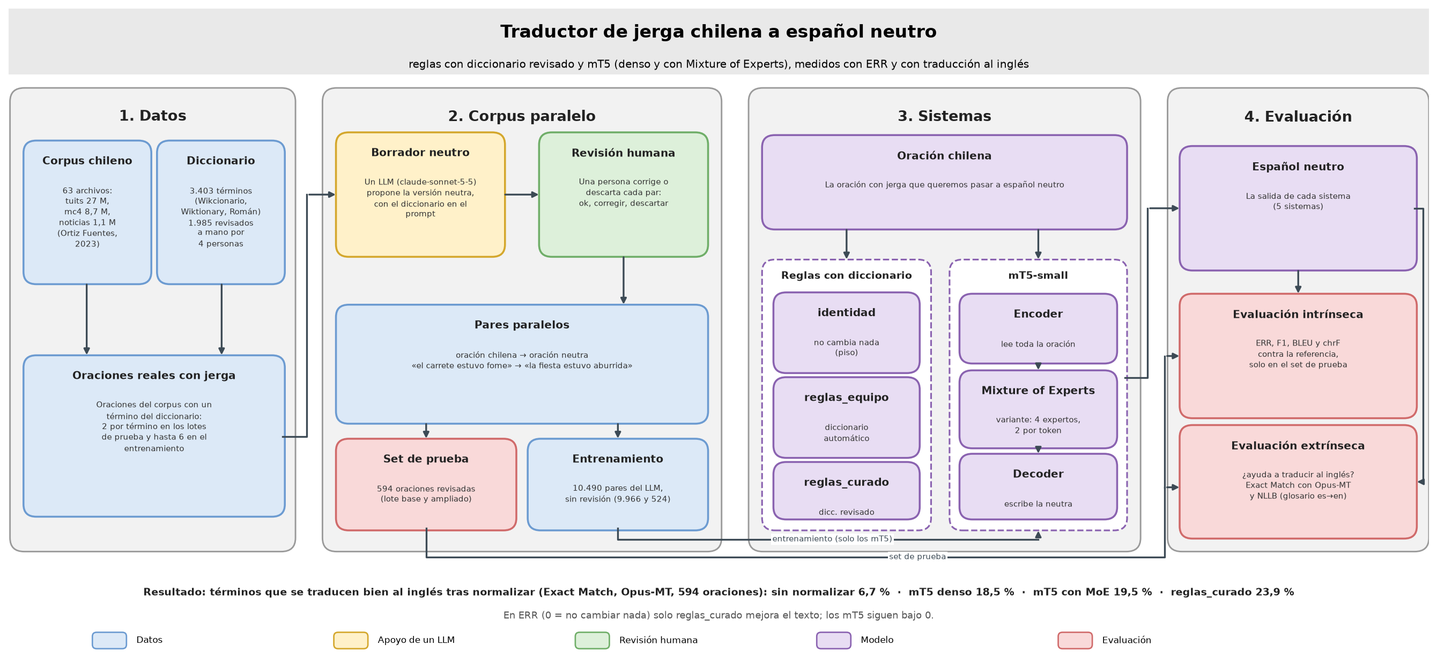
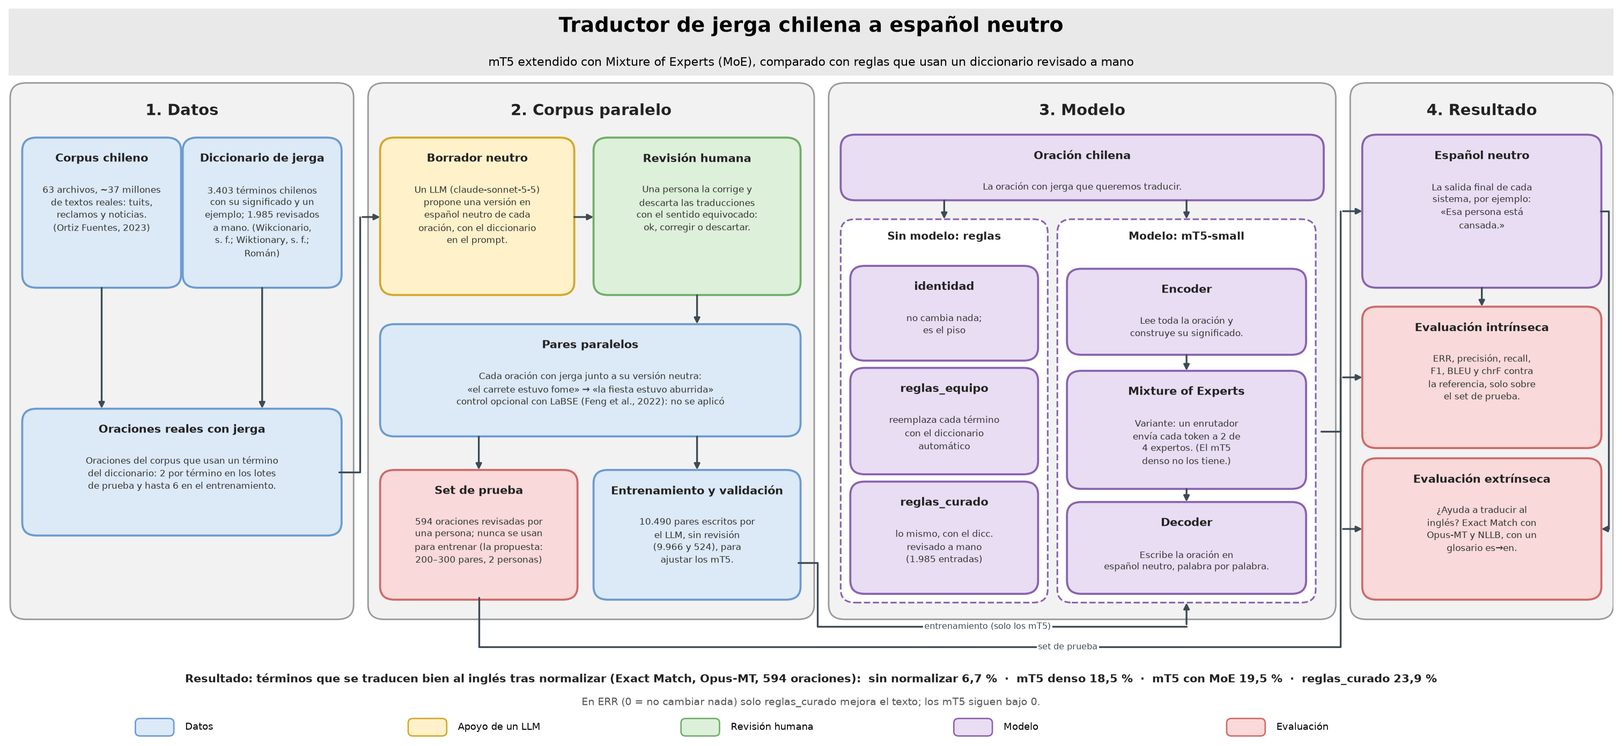
Auditoría del informe y los README: graphical abstract fiel al original, 6 figuras nuevas y mapa de experimentos
- Graphical abstract actualizado reconstruido sobre el de la propuesta (mismas cajas, descripciones, citas y ejemplo),
  con lo que cambió a la vista (reglas, set de prueba revisado por una persona, dos evaluaciones, LaBSE no aplicado).
- Figuras nuevas: ERR de la fase 2, traductores genéricos, LLM generadores con IC, efecto de la definición, cuántas
  familias hacen falta y extrínseca por conjunto. Esta última muestra que reglas_curado no gana en todos los conjuntos
  (en los tuits de primera fase la superan los mT5); queda dicho en el informe y en las conclusiones.
- Informe: mapa de los 15 experimentos (1.4), glosario ampliado con los términos técnicos que faltaban,
  «tamaño de lote (batch)» distinguido de «lote» de pares y rutas corregidas.
- data/README.md y annotation/README.md: glosarios, glosas de los modelos, respuestas crudas y nombres de los lotes.
- archivo/: enlaces rotos corregidos tras mover los README.
- Cifras del informe y del README cruzadas contra los CSV de resultados, el diccionario, los lotes y los glosarios.

diff --git a/docs/informe_interno.md b/docs/informe_interno.md
@@ -4,7 +4,7 @@
 
 **Cómo se nombra a las personas.** Por números de integrante (tabla de la sección 1). **Cómo se nombran los sistemas.** El sistema que sustituye con el diccionario revisado a mano se llama aquí `reglas_curado`; **en el código y en los CSV de resultados se llama `reglas_flo`** (y en el estudio previo `reglas_flo_con_ambiguos`, `llm_dicc_flo` y `mt5_flo`). El que usa el diccionario automático es `reglas_equipo` en todas partes.
 
-**Las figuras** de las secciones 2 y 4 se generan con `notebooks/graficos_informe.ipynb` (corre en Colab; guarda los PNG en `docs/figuras/`).
+**Las figuras** de las secciones 1, 2 y 4 se generan con `notebooks/graficos_informe.ipynb` (corre en Colab; guarda los PNG en `docs/figuras/`).
 
 **De dónde salen los números.** Fase 1: `archivo/resultados/comparacion_baselines.csv` y `tabla_por_conjunto.md`. Fase 2: los resultados de esa corrida se reemplazaron en la fase 3, así que sus cifras salen del historial de git (commits `0d7eb83` y `1aeef4a`). Fases 3 y 4: `resultados/metricas_normalizador.md`, `resultados/eval_extrinseca.md` y sus variantes. Cada carpeta tiene un README con más detalle (`README.md`, `annotation/README.md`, `data/README.md`).
 
@@ -58,6 +58,28 @@
 
 Los diagramas con más detalle están en la sección que les corresponde: cómo se hizo el diccionario revisado (2.1), los 8 sistemas de la fase 1 (3.1) y los archivos que entran y salen de cada paso (sección 8). Se editan con [draw.io](https://app.diagrams.net) abriendo `docs/pipelines.drawio`.
 
+### 1.4 Mapa de los experimentos
+
+Todos los experimentos del proyecto, con la pregunta que responde cada uno y dónde está el detalle (la sección 4 los desarrolla con sus tablas y figuras).
+
+| # | Fase | Experimento | Pregunta | Resultado, en una línea | Sección |
+|---|---|---|---|---|---|
+| 1 | 1 | Reglas con diccionario automático y con el revisado | ¿Vale la pena revisar el diccionario a mano? | Sí: el BLEU del lote base sube de 84,1 a 89,6 | 4.1 |
+| 2 | 1 | LLM con y sin diccionario | ¿El diccionario ayuda al LLM? | Sí, sobre todo en tuits: 89,4 contra 83,2 de BLEU | 4.1 |
+| 3 | 1 | Sustituir o no los términos ambiguos | ¿Conviene sustituir palabras que también son estándar? | No: empeora (en noticias, de 94,8 a 90,6) | 4.1 |
+| 4 | 1 | Traductores genéricos con pivote por inglés | ¿Basta con un traductor automático? | No: reescriben todo (BLEU de 25 a 50 contra 80 a 94 de la identidad) | 4.1 |
+| 5 | 1 | Versiones del mT5 (texto con ruido o limpio, épocas) | ¿Qué hace mejorar al modelo propio? | Texto limpio y 8 épocas: de 0,1 a 66,1 y a 81,0 de BLEU | 4.1 |
+| 6 | 2 | Primera corrida del pipeline final | ¿Qué rinde cada uno de los 5 sistemas, medido con ERR y con traducción? | Solo `reglas_curado` tiene ERR positivo; los mT5 con 1.500 pares no aprenden | 4.2 |
+| 7 | 3 | Ampliar el diccionario de 443 a 1.985 entradas | ¿Un diccionario más grande mejora las reglas? | Sube el recall y baja la precisión: mejora el lote base, no los lotes de las 100 palabras frecuentes | 4.3 |
+| 8 | 3 | mT5 con 7 veces más pares | ¿Más datos acercan al modelo propio a las reglas? | Mejora mucho (ERR de −21,8 a −9,6), pero sigue bajo 0 | 4.3 |
+| 9 | 3 | Qué hace cada sistema con cada oración | ¿Cómo fallan los mT5? | Cambian algo sin acertar en 56 a 65 % de las oraciones | 4.3 |
+| 10 | 4 | Acuerdo entre revisores | ¿Qué tan confiable es una sola revisión? | Kappa de 0,04 con una sola pareja: no concluyente | 4.4 |
+| 11 | 4 | Otros LLM como generadores de borradores | ¿Otro modelo puede escribir los borradores? | Haiku (85,0 %) y Gemini (82,9 %) sí; Llama 8B (40,2 %) no | 4.4 |
+| 12 | 4 | Glosario es→en por votos entre familias | ¿Se puede completar el glosario sin revisar todo a mano? | Sí: 57 de 60 términos muestreados con glosas válidas (95 %) | 4.4 |
+| 13 | 4 | Efecto de la definición y del número de familias | ¿Qué tanto dependen las glosas de la definición y de cuántos modelos voten? | Poco de la definición (92 a 97 %); la calidad no sube con más familias | 4.4 |
+| 14 | 4 | Evaluación extrínseca final y controles | ¿Normalizar ayuda a traducir al inglés? | Sí: 23,9 % con `reglas_curado` y 18,5 a 19,5 % con los mT5, contra 6,7 % sin normalizar; el orden no depende del glosario | 4.4 |
+| 15 | 4 | Sesgo según quién revisó el término | ¿El resultado favorece lo que revisó el integrante 1? | Sin evidencia de favoritismo, pero se confunde con la frecuencia del término | 4.4 |
+
 ---
 
 ## 2. Recolección de datos, por fases
@@ -98,7 +120,7 @@ Cada par se hizo así: un LLM (`claude-sonnet-5-5`) propuso la versión neutra (
 
 Con lo que había hasta entonces, el integrante 5 corrió por primera vez el pipeline completo (21 a 24-nov-2026). **Los datos de esa corrida:**
 
-- **Diccionario de `reglas_curado`:** el del libro 1 (`data/curado/diccionario_flo_parte1.csv`): **443 entradas**, todas con reemplazo validado, 231 de ellas marcadas como ambiguas. El diccionario completo (1.985 entradas) llegó después (2.3).
+- **Diccionario de `reglas_curado`:** el del libro 1 (`data/curado/diccionario_flo_parte1.csv` (hoy solo en el historial de git, commit `9a3c627`)): **443 entradas**, todas con reemplazo validado, 231 de ellas marcadas como ambiguas. El diccionario completo (1.985 entradas) llegó después (2.3).
 - **Diccionario de `reglas_equipo`:** el automático del Wikcionario (2.1a).
 - **Conjuntos de prueba:** los tres de la fase 1: lote base, lote primera fase noticias y lote primera fase tuits (213 + 72 + 165 pares).
 - **Entrenamiento de los mT5:** los 1.500 pares de la fase 1 (1.416 para entrenar, 75 para validar; 2.1f).
@@ -172,13 +194,13 @@ Como referencias también se miden `mt5_sin_ajustar` (el mismo modelo sin entren
 
 El LLM no usó clave de API: corre con la sesión de Claude Code del integrante 1 (gasta el uso del plan, no se cobra por token). Se le pasan las oraciones en lotes de 10 y devuelve una lista en JSON. El texto de las oraciones se trata como datos, nunca como instrucciones (prompts completos en el Anexo A).
 
-**Métricas de la fase 1.** **BLEU** y **chrF** (`sacrebleu`), sobre todo el conjunto. En todos los sistemas se quitaron los `@usuario` y los emojis de las oraciones y de las referencias antes de medir (son ruido sin jerga y confundían al modelo propio); los resultados con el texto original están en `resultados/comparacion_baselines_texto_original.csv`. Como casi toda la oración no cambia, la identidad ya parte alta (84 a 94 de BLEU): importa la **diferencia con la identidad**, no el valor absoluto.
+**Métricas de la fase 1.** **BLEU** y **chrF** (`sacrebleu`), sobre todo el conjunto. En todos los sistemas se quitaron los `@usuario` y los emojis de las oraciones y de las referencias antes de medir (son ruido sin jerga y confundían al modelo propio); los resultados con el texto original están en `archivo/resultados/comparacion_baselines_texto_original.csv`. Como casi toda la oración no cambia, la identidad ya parte alta (84 a 94 de BLEU): importa la **diferencia con la identidad**, no el valor absoluto.
 
 ### 3.2 Fase 2: primera corrida del pipeline final (5 sistemas)
 
 **Sistemas.** `identidad`; `reglas_equipo` (diccionario automático); `reglas_curado` (con el diccionario del libro 1, 443 entradas, ambiguos sin sustituir; en el código `reglas_flo`); `mt5` y `mt5_moe` (entrenados con los 1.500 pares). Las reglas priorizan las locuciones más largas y antes quitan las menciones `@usuario` y los emojis. Los cinco se miden en los tres conjuntos de la fase 1 (2.2).
 
-**mT5 denso (`models/mt5/mt5.ipynb`, integrante 5).** Notebook de Colab (GPU T4) que ajusta `google/mt5-small` con `data/interim/borrador_entrenamiento.csv`: 8 épocas, Adafactor, tasa de aprendizaje 5e-4, lote de 8, semilla 1 y **precisión fp32** (la T4 no tiene bf16). Guarda el mejor modelo según la pérdida de validación y escribe las predicciones sobre los conjuntos.
+**mT5 denso (`models/mt5/mt5.ipynb`, integrante 5).** Notebook de Colab (GPU T4) que ajusta `google/mt5-small` con `data/interim/borrador_entrenamiento.csv`: 8 épocas, Adafactor, tasa de aprendizaje 5e-4, tamaño de lote (batch) 8, semilla 1 y **precisión fp32** (la T4 no tiene bf16). Guarda el mejor modelo según la pérdida de validación y escribe las predicciones sobre los conjuntos.
 
 **mT5 con mezcla de expertos (`models/mt5_moe/mt5_moe.ipynb`, integrante 5).** Convierte ese mismo mT5 en MoE por *upcycling*: una capa de cada dos (bloques 1, 3, 5 y 7) pasa a ser dispersa, con **4 expertos** que parten como copias de la red densa y un router que manda cada token a los **2 mejores**. El router trabaja en fp32 con un poco de ruido (0,01) y el entrenamiento suma una pérdida de balance de carga y una pérdida z (0,001 cada una). Verifica que, antes de entrenar, el MoE reproduce al denso. Se entrena con los mismos datos y parámetros que el denso, para que la comparación sea justa.
 
@@ -190,7 +212,7 @@ El LLM no usó clave de API: corre con la sesión de Claude Code del integrante 
 
 **Qué cambia respecto de la fase 2:** el diccionario de `reglas_curado` pasa de 443 a **1.985 entradas**; los conjuntos pasan de 3 a **5** (594 oraciones únicas); los mT5 se entrenan con **10.490 pares** en vez de 1.500; el código de las métricas y de la extrínseca es el mismo (con la corrección que se cuenta en 4.4). Las reglas se recalcularon con el diccionario unificado y los dos mT5 se reentrenaron.
 
-**Entrenamiento local (integrante 1).** Se reentrenaron los dos con los 10.490 pares, con los mismos notebooks y parámetros, pero con lote 4 en vez de 8, porque la RTX 3050 de 4 GB no aguanta lote 8 en fp32. `src/ejecutar_notebook_local.py` ejecuta las celdas de los notebooks de Colab sin cambiar el código (con una carpeta local en lugar de Google Drive) y `src/correr_pipeline_local.py` encadena los pasos. Una sola semilla.
+**Entrenamiento local (integrante 1).** Se reentrenaron los dos con los 10.490 pares, con los mismos notebooks y parámetros, pero con tamaño de lote (batch) 4 en vez de 8, porque la RTX 3050 de 4 GB no aguanta lote 8 en fp32. `src/ejecutar_notebook_local.py` ejecuta las celdas de los notebooks de Colab sin cambiar el código (con una carpeta local en lugar de Google Drive) y `src/correr_pipeline_local.py` encadena los pasos. Una sola semilla.
 
 ### 3.4 Fase 4: validación
 
@@ -265,6 +287,8 @@ BLEU / chrF (`archivo/resultados/tabla_por_conjunto.md`):
 
 **Traductores genéricos.** Ambos quedan muy por debajo de no hacer nada (44,5 y 38,5 contra 85,7 de la identidad en el lote base). Reescriben toda la oración en vez de cambiar solo la jerga, pierden mayúsculas, hashtags y nombres, y cambian el sentido de las palabras que no conocen (ver los ejemplos del Anexo B). Esto justifica que el problema necesita un sistema que conozca la jerga y deje intacto el resto.
 
+![BLEU de los traductores genéricos con pivote por inglés frente a la identidad y a reglas_curado](figuras/fig14_traductores_genericos.png)
+
 **Modelo propio (mT5).** `mT5-small` ajustado en la GPU del integrante 1 **todavía no supera a la identidad** (81,0 contra 85,7 en el lote base, y 80,4 contra 82,7 en tuits). Aun así aprendió la tarea: sin ajustar da cerca de 0 de BLEU. Lo que mejoró el resultado fue:
 
 | Versión | BLEU en el lote base |
@@ -306,6 +330,8 @@ Resultados de la corrida del integrante 5: diccionario del libro 1 (443 entradas
 | **reglas_curado** | **21,1** | **18,8** |
 | mT5 denso | 9,4 | 9,4 |
 | mT5 con MoE | 10,3 | 10,5 |
+
+![ERR de la primera corrida (fase 2) por sistema y conjunto](figuras/fig13_err_fase2.png)
 
 **Qué se concluye de la fase 2**
 
@@ -420,6 +446,8 @@ En lote base todas las oraciones tienen jerga; en tuits y noticias entre 22 % y 
 
 **Otros LLM como generadores de borradores (24-nov-2026).** Tasa de `ok` sobre los pares revisados (IC 95 % de Wilson): **Haiku 5.5 85,0 %** (78,8 a 89,6; 167 pares), **Gemini 3.5 flash-lite 82,9 %** (76,6 a 87,9; 170 pares) y **Llama 3.1 8B 40,2 %** (31,9 a 49,0; 122 pares); la referencia, `claude-sonnet-5-5`, quedó en 80,8 % en otra medición (no es una comparación ciega). Haiku y Gemini no se distinguen (McNemar, p = 1,0; con `ok` + `corregir` ambos sirven en ~98 % de los casos; chrF 91,3 y 93,2 contra la versión final). Llama 8B se descarta: solo el 70 % de sus borradores sirven, 19 respuestas vinieron vacías y 10 devolvieron el prompt (chrF 77,0). Límites: la versión final salió del borrador de Sonnet, así que Haiku (misma familia) parte con ventaja; los 200 pares excluyen los descartados de Sonnet, lo que también lo favorece; hay un único revisor; 61 filas quedaron sin revisar y 74 filas exclusivas de Llama se dejaron de revisar a propósito, por lo que las tasas se calculan solo sobre lo revisado. Detalle en `annotation/README.md`.
 
+![Tasa de borradores aceptados sin cambios por modelo, con IC 95 % de Wilson](figuras/fig15_generadores_llm.png)
+
 **Glosario es→en: calibración de la regla de votos.** Con los 93 términos revisados a mano y las 7 familias completas (diccionario, Claude, Google, Cohere, Meta, IBM y Nvidia):
 
 | Coinciden al menos | Términos con glosa aceptada (de 330) | Sin acuerdo | Comparte una glosa con la referencia | Glosas aceptadas que la referencia respalda |
@@ -436,6 +464,8 @@ En lote base todas las oraciones tienen jerga; en tuits y noticias entre 22 % y 
 
 **Cuántas familias hacen falta.** Se probaron todos los subconjuntos de las 6 familias completas en ese momento. De 3 a 6 familias, la coincidencia con la referencia queda estancada en 70 a 77 %: la calidad no mejora al sumar familias (hay un techo que no depende del número de modelos). Lo que sí cambia es la estabilidad: con 6 familias y umbral 4, al quitar una familia se conserva entre 63 % (sin Claude) y 88 % (sin el diccionario) de las glosas aceptadas. Por eso conviene tener unas 8 a 10 familias, y más allá no se espera ganancia.
 
+![Calidad según el número de familias y estabilidad al quitar una](figuras/fig17_cuantas_familias.png)
+
 **Efecto de la definición que ve el modelo.** Se comparó, para cada modelo, la versión con la definición del diccionario curado (la que se usa) con la primera pasada, que usaba solo el Wikcionario en español. Porcentaje de términos en que las dos versiones comparten al menos una glosa equivalente:
 
 | Modelo | Todos los términos | Los 52 sin definición del Wikcionario | Los 278 con definición |
@@ -449,6 +479,8 @@ En lote base todas las oraciones tienen jerga; en tuits y noticias entre 22 % y 
 | IBM (Granite) | 78 % (222 de 284) | 68 % | 80 % |
 
 En general la definición cambia poco la glosa (92 a 97 % de coincidencia en los modelos más estables). Donde sí pesa es en los 52 términos sin definición del Wikcionario (53 a 87 %): ahí el modelo, antes sin pista, ahora recibe la definición del diccionario curado. Cohere e IBM son los menos estables y los que menos coinciden con la referencia, por eso son los candidatos a bajar su peso si se sigue sumando familias.
+
+![Coincidencia de glosas entre la definición curada y la del Wikcionario, por modelo](figuras/fig16_efecto_definicion.png)
 
 **Resultado de la revisión.** Con el umbral 5 quedan 271 términos aceptados y 59 sin acuerdo. El integrante 1 revisó 67 términos y **dos muestras de términos aceptados por votos, 20 y 40 (60 en total)**. Cada término de la muestra se clasificó así: *ok* (las glosas aceptadas sirven tal cual), *incompleta* (las aceptadas sirven pero faltan otras, y se agregaron) o *distinta* (hubo que reemplazar una glosa aceptada).
 
@@ -477,6 +509,10 @@ En general la definición cambia poco la glosa (92 a 97 % de coincidencia en los
 Los dos mT5 mejoran mucho la traducción respecto de no normalizar (de 6,7 a 18 o 19 % con Opus-MT) y quedan unos 5 puntos por debajo de `reglas_curado`; con 1.500 pares quedaban en 9,4 y 10,3 %. El MoE queda 1 punto sobre el denso en «todos» y en casi todos los conjuntos, igual que en la intrínseca; con una semilla esa diferencia no es concluyente. **Comparación con la primera corrida:** gana el mismo sistema y `reglas_curado` queda cerca de su 23,3 / 20,9, pero las oraciones y el glosario cambiaron (446 contra 594), así que no hay que restar las cifras. En noticias hay 68 a 73 oraciones, y ahí `reglas_equipo` queda sobre `reglas_curado` con Opus-MT (22,1 contra 14,7 en lote primera fase noticias): no se exploró y con ese tamaño no se interpreta.
 
 ![Exact Match por sistema con los tres glosarios, con Opus-MT y NLLB](figuras/fig7_extrinseca.png)
+
+**Por conjunto, el orden no es el mismo.** `reglas_curado` es la mejor en el lote base (30,5 % contra 22,5 y 23,5 de los mT5) y en el lote ampliado de tuits (20,8 contra 17,9 y 18,5). Pero en los tuits de primera fase (165 oraciones) queda por debajo de los dos mT5 con Opus-MT (17,6 contra 18,8 y 18,8; con NLLB el denso empata en 13,3 y el MoE llega a 13,9), y en noticias (68 y 73 oraciones) `reglas_equipo` la supera (22,1 y 21,9 contra 14,7 y 17,8). Es plausible que los mT5 rindan mejor justo en las 100 palabras más frecuentes porque son las que más aparecen en su entrenamiento, pero no se comprobó. Gran parte de la ventaja de `reglas_curado` en la fila «todos» viene del lote base.
+
+![Exact Match con Opus-MT por sistema y conjunto](figuras/fig18_extrinseca_por_conjunto.png)
 
 **¿Depende del glosario?** Se recalculó con los dos glosarios de control. Todos, Opus-MT / NLLB:
 
@@ -511,7 +547,7 @@ Cómo se lee: (1) `reglas_curado` rinde más en los términos que decidió el in
 1. **La regla de votos es una buena forma de completar el glosario, con límites.** 57 de 60 términos de las muestras (95 %) quedaron con glosas aceptadas válidas; 46 (77 %) no necesitaron ningún cambio y 11 estaban incompletas. Los 3 errores fueron de sentido o de forma, que es el riesgo conocido del voto: acuerdo no es lo mismo que sentido correcto.
 2. **La calidad del glosario no sube sumando familias, pero la estabilidad sí.** Con más de 3 familias la coincidencia con la referencia se estanca en 70 a 77 %; lo que cambia es cuánto depende el resultado de una familia en particular. Por eso la revisión humana no se reemplaza con más modelos.
 3. **La definición pesa poco, salvo donde no había definición,** y los modelos más débiles (Cohere, IBM) son los más sensibles.
-4. **Normalizar ayuda a traducir, y la conclusión no depende del glosario.** `reglas_curado` traduce bien 23,9 % de los términos ancla (3,6 veces más que sin normalizar), el MoE 19,5 % y el denso 18,5 %, con los tres glosarios probados y en ese orden. En noticias no se puede concluir (68 a 73 oraciones).
+4. **Normalizar ayuda a traducir, y la conclusión no depende del glosario.** `reglas_curado` traduce bien 23,9 % de los términos ancla (3,6 veces más que sin normalizar), el MoE 19,5 % y el denso 18,5 %, con los tres glosarios probados y en ese orden en la fila «todos». Por conjunto hay excepciones: en los tuits de primera fase los mT5 superan por poco a `reglas_curado`, y en noticias (68 a 73 oraciones) no se puede concluir.
 5. **El MoE contra el denso sigue sin decidirse:** gana por un punto en dos de tres glosarios y pierde por 0,4 en el de solo diccionarios.
 6. **El estudio de acuerdo entre revisores no es concluyente** (kappa 0,04, una sola pareja): los dos revisores aplicaron criterios distintos al `descartar`. Hay que aclarar esa regla antes de repetirlo.
 7. **Otros LLM pueden escribir los borradores:** Haiku (85,0 %) y Gemini (82,9 %) quedan al nivel de Sonnet (80,8 %), y Llama 3.1 8B (40,2 %) no sirve. La comparación tiene ventaja para Haiku por ser de la misma familia que el modelo que escribió la versión final.
@@ -525,7 +561,7 @@ Cómo se lee: (1) `reglas_curado` rinde más en los términos que decidió el in
 
 1. **La calidad del diccionario pesa más que la complejidad del modelo.** El mismo código de reglas pasa de empeorar el texto (diccionario automático: ERR de −4 a −56) a mejorarlo (diccionario revisado: ERR de 11 a 30). Ampliar el diccionario de 443 a 1.985 entradas sube el recall pero baja la precisión: ayuda en las palabras nuevas (+1,7 de BLEU en el lote 2 y ERR de 23,4 a 30,0 en el lote base) y no en las 100 más frecuentes (ERR de 13,0 a 10,9 y de 21,0 a 19,5). Las reglas, en cambio, tienen un recall bajo (22 a 34 %) porque no entienden el contexto ni las variantes.
 2. **El modelo propio todavía no alcanza.** Los mT5 aprenden la tarea (F1 de 26 a 29, sin ajustar casi 0) y con 7 veces más pares el ERR mejoró mucho, pero sigue negativo en todos los conjuntos: cambian palabras que no debían, sobre todo en noticias. El MoE queda levemente sobre el denso, con una sola semilla.
-3. **Normalizar ayuda a traducir.** Con `reglas_curado` se traducen bien 23,9 % de los términos ancla, contra 6,7 % sin normalizar; los mT5 llegan a 18,5 y 19,5 %. El orden se mantiene con tres glosarios distintos, así que no depende de cómo se armó el glosario. Los traductores genéricos con pivote por inglés destruyen el texto (BLEU de 25 a 50 frente a 83 a 94 de la identidad).
+3. **Normalizar ayuda a traducir.** Con `reglas_curado` se traducen bien 23,9 % de los términos ancla, contra 6,7 % sin normalizar; los mT5 llegan a 18,5 y 19,5 %. El orden se mantiene con tres glosarios distintos, así que no depende de cómo se armó el glosario (por conjunto hay excepciones: 4.4). Los traductores genéricos con pivote por inglés destruyen el texto (BLEU de 25 a 50 frente a 83 a 94 de la identidad).
 4. **El diccionario no se puede sustituir ciegamente:** los términos ambiguos (palabras estándar muy frecuentes) empeoran el resultado en los tres conjuntos de la fase 1 (por ejemplo, en noticias de 94,8 a 90,6 de BLEU).
 5. **La evaluación es solo tan confiable como sus referencias.** Un solo revisor revisó los pares (el acuerdo con el integrante 2 fue de kappa 0,04 por un criterio distinto del `descartar`), el diccionario lo revisaron cuatro personas con criterios distintos (4.4) y no se halló evidencia de favoritismo hacia lo que revisó el integrante 1, aunque tampoco se puede descartar y el glosario es→en de la extrínseca se completó en parte con votos de modelos (57 de 60 términos muestreados válidos). Los resultados son consistentes entre conjuntos, pero con muestras chicas las diferencias de un punto no son concluyentes.
 6. **Un LLM puede escribir los borradores,** pero no se debe evaluar con ellos solos: el borrador de Sonnet fue aceptado sin cambios en 80,8 % de los pares, y Haiku y Gemini rinden parecido. Los pares de entrenamiento de los mT5 son borradores sin revisión.
@@ -635,6 +671,20 @@ Los archivos con texto de tuits sin filtrar (Excel de revisión, libros del dicc
 - **Exact match (EMA):** proporción de oraciones cuya traducción al inglés contiene una traducción aceptada del término ancla. **Opus-MT y NLLB:** los dos traductores abiertos que se usan para eso.
 - **Kappa de Cohen y alfa de Krippendorff:** miden cuánto coinciden dos revisores (o más) más allá del azar; 0 = como al azar, 1 = acuerdo perfecto.
 - **IC 95 % de Wilson / McNemar:** el primero da un intervalo para una proporción; el segundo compara dos sistemas sobre los mismos pares.
+
+- **LAI:** la proporción de palabras que no cambian en la referencia; es el punto de partida del ERR (la identidad acierta justo esa proporción).
+- **TP, FP, FN:** aciertos (palabras con jerga que se corrigen bien), falsos positivos (palabras que se cambian y no debían) y falsos negativos (palabras con jerga que no se corrigen bien). De ahí salen la precisión, el recall y el F1.
+- **MultiLexNorm:** la evaluación compartida de normalización léxica (W-NUT 2021) de donde sale el ERR. **sacrebleu:** la librería que calcula BLEU y chrF.
+- **Pivote (traducción ida y vuelta):** pasar de español a inglés y volver a español con un traductor, esperando que la jerga salga normalizada; es lo que hacen `mt_ida_vuelta` y `nllb_ida_vuelta`.
+- **Concordancia (acuerdo entre revisores):** cuánto coinciden dos o más personas al revisar los mismos pares. **Bootstrap:** remuestrear los datos muchas veces para calcular un intervalo de confianza.
+
+**Entrenamiento y cómputo**
+- **Encoder y decoder:** las dos mitades del mT5; el encoder lee y resume la oración chilena y el decoder escribe la oración neutra palabra por palabra.
+- **Token:** el pedazo de texto (una palabra o parte de una) con que trabaja el modelo. En el MoE, el enrutador manda cada token a 2 de los 4 expertos.
+- **Prompt:** el texto con instrucciones que se le da a un LLM. **LaBSE:** modelo de *embeddings* multilingües que la propuesta planteaba como control opcional de similitud entre oraciones; no se aplicó.
+- **Semilla:** el número que fija el azar de un entrenamiento. Con una sola semilla no se sabe cuánto de una diferencia pequeña es azar.
+- **Tamaño de lote (batch):** cuántos ejemplos procesa el modelo a la vez al entrenar (8 en Colab, 4 en la GPU local). No es lo mismo que el «lote» de pares.
+- **GPU, T4 y RTX 3050:** la tarjeta gráfica que acelera el entrenamiento; la T4 es la de Colab y la RTX 3050 (4 GB), la del computador local. **fp32:** precisión numérica de 32 bits. **Adafactor:** el algoritmo que ajusta los pesos del modelo, con poco uso de memoria.
 
 **Glosario es→en**
 - **Glosa:** una traducción al inglés de un término (por ejemplo, *right away* para *al tiro*). **`acepta_en`:** la columna del glosario con las glosas aceptadas, separadas por `|`.

diff --git a/data/README.md b/data/README.md
@@ -9,7 +9,7 @@ Datos del proyecto. Visión general: [`../README.md`](../README.md).
 | [`curado/`](curado/) | **El diccionario revisado a mano** (libro 1 y repartos 2 a 5): `diccionario_flo.csv` (1.985 filas con definición, reemplazo, marca de ambiguo, variantes y quién lo revisó) y `terminos_descartados.csv` (1.327 que se quitan o se unifican). Es lo que leen los sistemas B y C. | Sí |
 | [`diccionario/`](diccionario/) | El trabajo previo de revisión: términos unidos, acepciones del Wikcionario, entradas de Román y el resumen de las reglas de ortografía. Ningún sistema lo lee; es respaldo y documentación. | Solo en parte (ver abajo) |
 | `raw/` | Descargas que hace `src/chilenismos/diccionario.py` (la caché del Wikcionario). | No |
-| `interim/` | Intermedios: candidatas de oraciones (`candidatas_*.csv`) y `borrador_entrenamiento.csv`, los pares con que se entrena mT5 (10.521 filas desde el 24-nov; la versión de 1.500 pares es `borrador_entrenamiento_v1.csv`). Pueden traer texto de tuits. | Solo `borrador_entrenamiento.csv` y `candidatas_entrenamiento.csv` |
+| `interim/` | Intermedios: candidatas de oraciones (`candidatas_*.csv`), `borrador_entrenamiento.csv` (los pares con que se entrena mT5: 10.521 filas desde el 24-nov; la versión de 1.500 pares es `borrador_entrenamiento_v1.csv`) y los archivos del glosario es→en (ver más abajo). Los de oraciones pueden traer texto de tuits. | Solo `borrador_entrenamiento.csv`, `candidatas_entrenamiento.csv` y los archivos del glosario que no traen tuits |
 | `processed/` | Salidas de los scripts: `diccionario.csv` del equipo, `predicciones_*.csv` y `eval_extrinseca.csv`. | Sí, esos archivos (con `git add -f`); el resto no |
 
 ## `curado/diccionario_flo.csv`
@@ -32,6 +32,22 @@ Datos del proyecto. Visión general: [`../README.md`](../README.md).
 | `notas` | Notas de la revisión |
 
 Más detalle en [`../archivo/README_flo.md`](../archivo/README_flo.md).
+
+## Glosario es→en y glosas de los modelos
+
+La evaluación extrínseca usa un glosario con las traducciones al inglés aceptadas para cada término ancla (el término por el que se eligió cada oración). Cómo se armó está en la sección 3.4 del [informe interno](../docs/informe_interno.md).
+
+| Archivo | Qué es |
+|---|---|
+| `diccionario/glosario_es_en_test.csv` | Glosario base de 330 términos: `termino;reemplazo_es;acepta_en` (glosas separadas por `\|`). 93 revisados a mano y el resto con glosas automáticas del Wikcionario. |
+| `diccionario/glosario_es_en_test_revisado.csv` | Los 93 términos revisados a mano por el integrante 5 (la referencia con que se calibró la regla de votos). |
+| `diccionario/glosario_es_en_final.csv` | **El que usa la extrínseca.** Mismas columnas más `fuente`: `carlos` (93, del glosario revisado), `flo` (81, decididos por el integrante 1 en un Excel) y `votos` (156, aceptados cuando coinciden 5 de 7 familias de modelos). |
+| `diccionario/glosario_es_en_sin_claude.csv`, `glosario_es_en_solo_diccionarios.csv` | Controles: votos sin la familia Claude, y solo lo que dicen los diccionarios (Wikcionario y glosas `[EN]`). |
+| `interim/glosas_<modelo>.json` | `{termino: [glosas]}` que escribió cada modelo a partir de la definición del diccionario curado (sin las glosas `[EN]`). `sonnet`, `haiku`, `gemini`, `cohere`, `ibm`, `openrouter` y `cf_llama`, más `glosas_wikcionario_en.json` y `_es.json`. |
+| `interim/glosas_v1_definiciones_wikcionario/` | La primera pasada, con las definiciones solo del Wikcionario en español; se conserva como control del efecto de la definición. |
+| `interim/respuestas_crudas/` | El texto exacto que devolvió cada modelo antes de leerlo (una línea por llamada), para releerlo con `--reparsear` sin gastar más tokens. Solo hay de IBM y OpenRouter. |
+
+Las glosas parciales de los modelos que no terminaron (Mistral, OpenAI y Alibaba, por el cupo gratuito de Cloudflare) no se suben y no cuentan como votos.
 
 ## `diccionario/`
 

diff --git a/archivo/README_flo.md b/archivo/README_flo.md
@@ -3,9 +3,9 @@
 Trabajo de Flo, con ayuda de Claude (asistente de IA) para proponer definiciones, reemplazos y código.
 Lo que propuso Claude lo validó Flo.
 
-Este documento describe el **sistema B** (reglas + diccionario revisado a mano). Visión general de los tres sistemas: [`README.md`](README.md). El sistema C (LLM + plan de datos): [`idea_flo/README.md`](idea_flo/README.md).
+Este documento describe el **sistema B** (reglas + diccionario revisado a mano). Visión general de los tres sistemas: [`README.md`](../README.md). El sistema C (LLM + plan de datos): [`idea_flo/README.md`](idea_flo/README.md).
 
-![Los 7 sistemas en paralelo](docs/pipelines_1.png)
+![Los 7 sistemas en paralelo](../docs/pipelines_1.png)
 
 ## Qué se hizo
 
@@ -18,11 +18,11 @@ El trabajo previo (con esta estructura; **no se subió al repo, lo tiene solo Fl
 - **Criterio de unificación:** se une el verbo con su forma en -se y las variantes escritas. No se unen participios o adjetivos derivados ni derivados de otra clase gramatical.
 - **Resultado del libro 1:** 433 términos aceptados y 220 descartados (nombres propios, palabras estándar sin sentido chileno, ruido).
 
-![Cómo se hizo el diccionario revisado](docs/pipelines_2.png)
+![Cómo se hizo el diccionario revisado](../docs/pipelines_2.png)
 
 ### 2. Qué hay en la rama
 
-![Archivos involucrados](docs/pipelines_3.png)
+![Archivos involucrados](../docs/pipelines_3.png)
 
 | Archivo | Qué es |
 |---|---|
@@ -65,7 +65,7 @@ python src/chilenismos/baselines.py --escenario flo --incluir-ambiguos --sin-mt5
 
 ## Resultados
 
-BLEU / chrF en los tres conjuntos de pares, medidos sobre texto sin `@usuario` ni emojis (`resultados/comparacion_baselines.csv`; tabla completa con los 8 sistemas en el [README global](README.md)), con el sistema A como punto de comparación:
+BLEU / chrF en los tres conjuntos de pares, medidos sobre texto sin `@usuario` ni emojis (`resultados/comparacion_baselines.csv`; tabla completa con los 8 sistemas en el [README global](../README.md)), con el sistema A como punto de comparación:
 
 | Sistema | lote1.csv (213) | lote_1_noticias (72) | lote_1_tuits (165) |
 |---|---|---|---|

diff --git a/annotation/README.md b/annotation/README.md
@@ -11,8 +11,19 @@ Visión general del proyecto: [`../README.md`](../README.md). Cómo se generaron
 | `lote_1_noticias.csv` | Lote 1 generado con el plan de Flo, con oraciones de **noticias**. El borrador neutro lo propuso un LLM y lo revisó Flo (72 pares usados, 21 descartados). | Sí |
 | `lote_1_tuits.csv` | Lote 1 generado con oraciones de **tuits**. El borrador neutro lo propuso un LLM y lo revisó Flo (165 pares usados, 29 descartados). | Sí (ver «Tuits») |
 | `lote_2_noticias.csv`, `lote_2_tuits.csv`, `lote_2.csv` | 150 pares nuevos (148 usables) de palabras que no estaban en el lote 1: 145 de tuits y 5 de noticias. Borrador de `claude-sonnet-5-5`, revisado por Flo. | Los de tuits **no** (ver «Tuits») |
-| `lote_1_2_noticias.csv`, `lote_1_2_tuits.csv` | El lote 1 más el lote nuevo: 98 y 339 pares (77 y 308 usables). | Los de tuits **no** (ver «Tuits») |
+| `lote_1_2_noticias.csv`, `lote_1_2_tuits.csv` | Los **lotes ampliados**: el lote 1 más el lote nuevo, 98 y 339 pares (77 y 308 usables). Contienen a los de primera fase (`lote_1_*`), así que sus filas se solapan y no se suman. | Los de tuits **no** (ver «Tuits») |
 | `revision_lote_1_noticias.xlsx`, `revision_lote_1_tuits.xlsx` | El mismo contenido en Excel, para revisar cómodamente (ver «Cómo se revisa un par»). | **No** |
+
+### Nombres de los lotes en el informe
+
+El [informe interno](../docs/informe_interno.md) usa nombres más claros para los conjuntos (los archivos conservan su nombre):
+
+| En el informe | Archivo |
+|---|---|
+| lote base | `lote1.csv` (no comparte ninguna oración con los demás) |
+| lote primera fase noticias y tuits | `lote_1_noticias.csv` y `lote_1_tuits.csv` |
+| palabras nuevas (lote 2) | `lote_2_noticias.csv` y `lote_2_tuits.csv` |
+| lote ampliado noticias y tuits | `lote_1_2_noticias.csv` y `lote_1_2_tuits.csv` (primera fase más palabras nuevas) |
 
 ## Formato
 

diff --git a/archivo/idea_flo/README.md b/archivo/idea_flo/README.md
@@ -1,11 +1,11 @@
 # idea_flo: sistema C, el plan de datos original de Flo
 
 Código aparte del que usa el equipo. Es el **sistema C** del proyecto: le entrega al LLM la oración y el diccionario revisado, y además arma sus propios pares.
-Visión general de los tres sistemas: [`../README.md`](../README.md). El diccionario revisado que usa: [`../README_flo.md`](../README_flo.md).
+Visión general de los tres sistemas: [`../README.md`](../../README.md). El diccionario revisado que usa: [`../README_flo.md`](../README_flo.md).
 
-![Los 8 sistemas en paralelo](../docs/pipelines_1.png)
+![Los 8 sistemas en paralelo](../../docs/pipelines_1.png)
 
-![Archivos involucrados](../docs/pipelines_3.png)
+![Archivos involucrados](../../docs/pipelines_3.png)
 
 ## Estado
 
